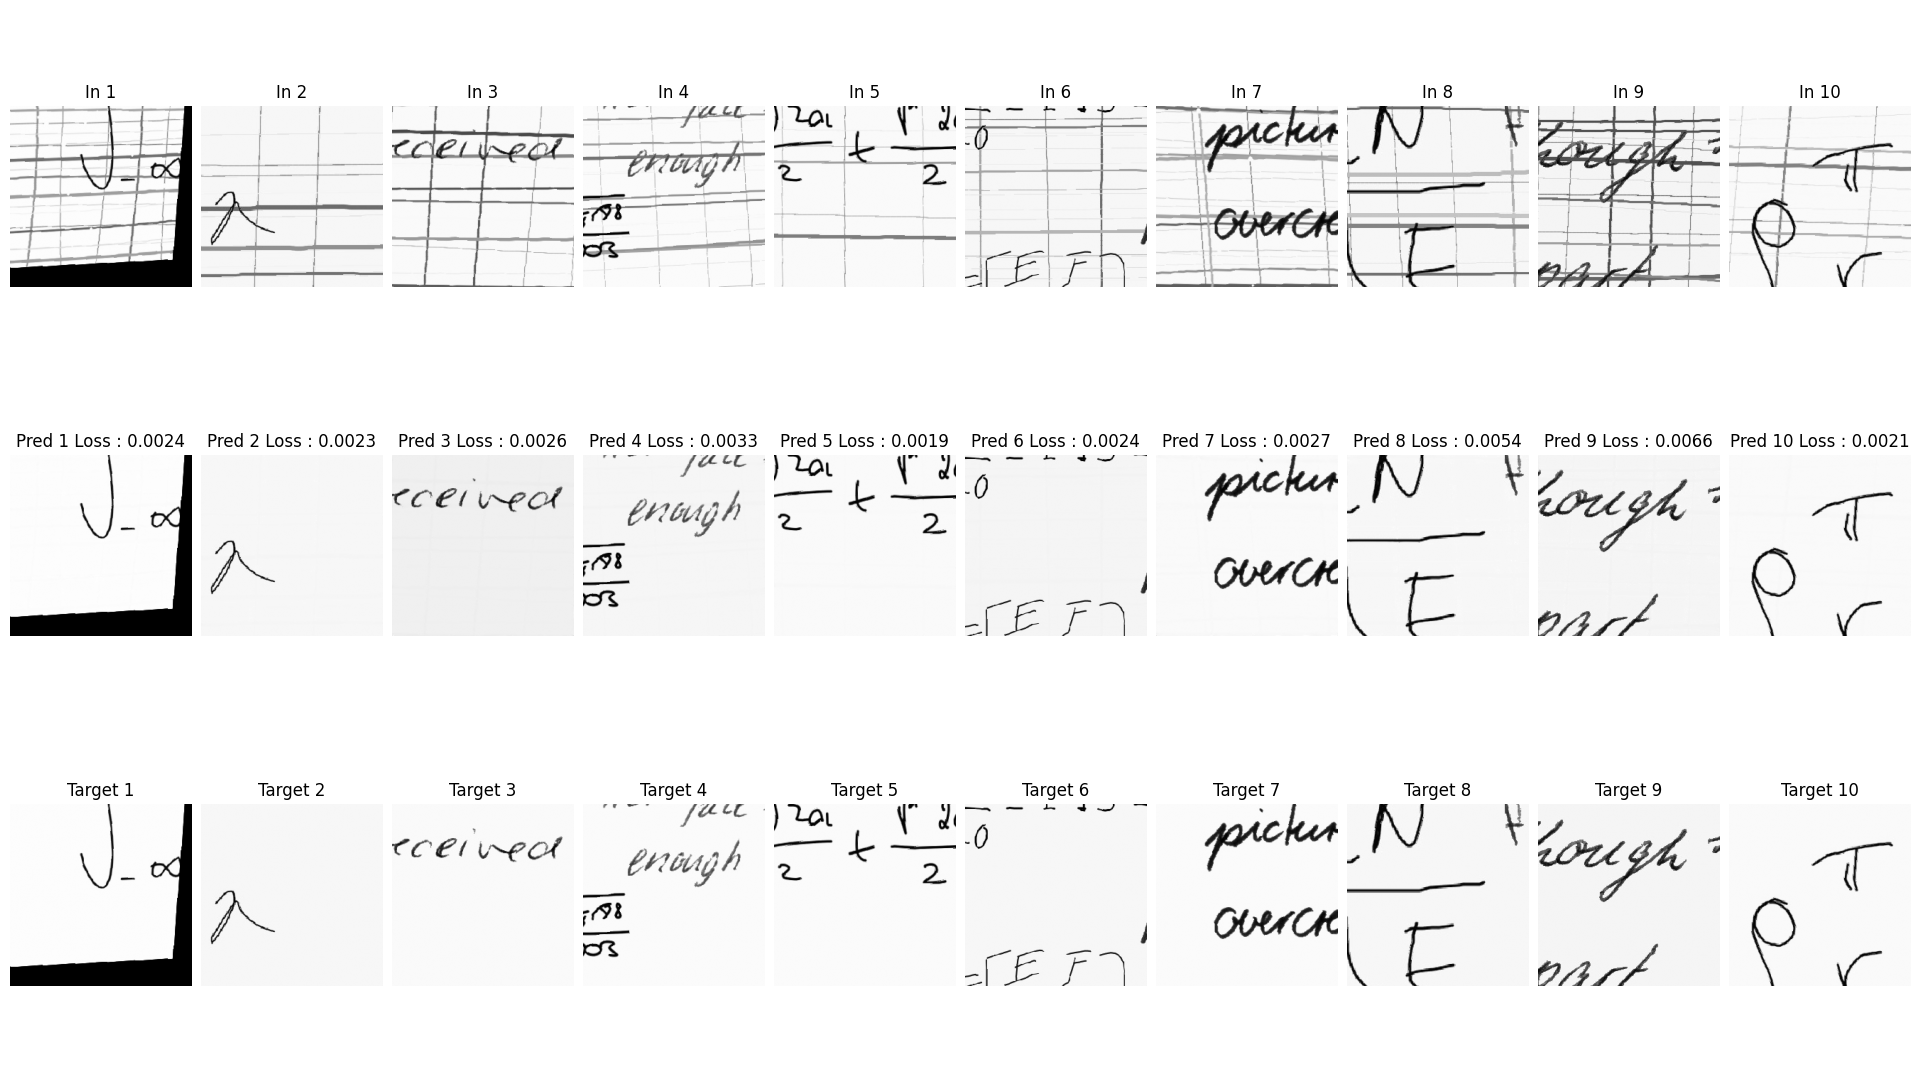
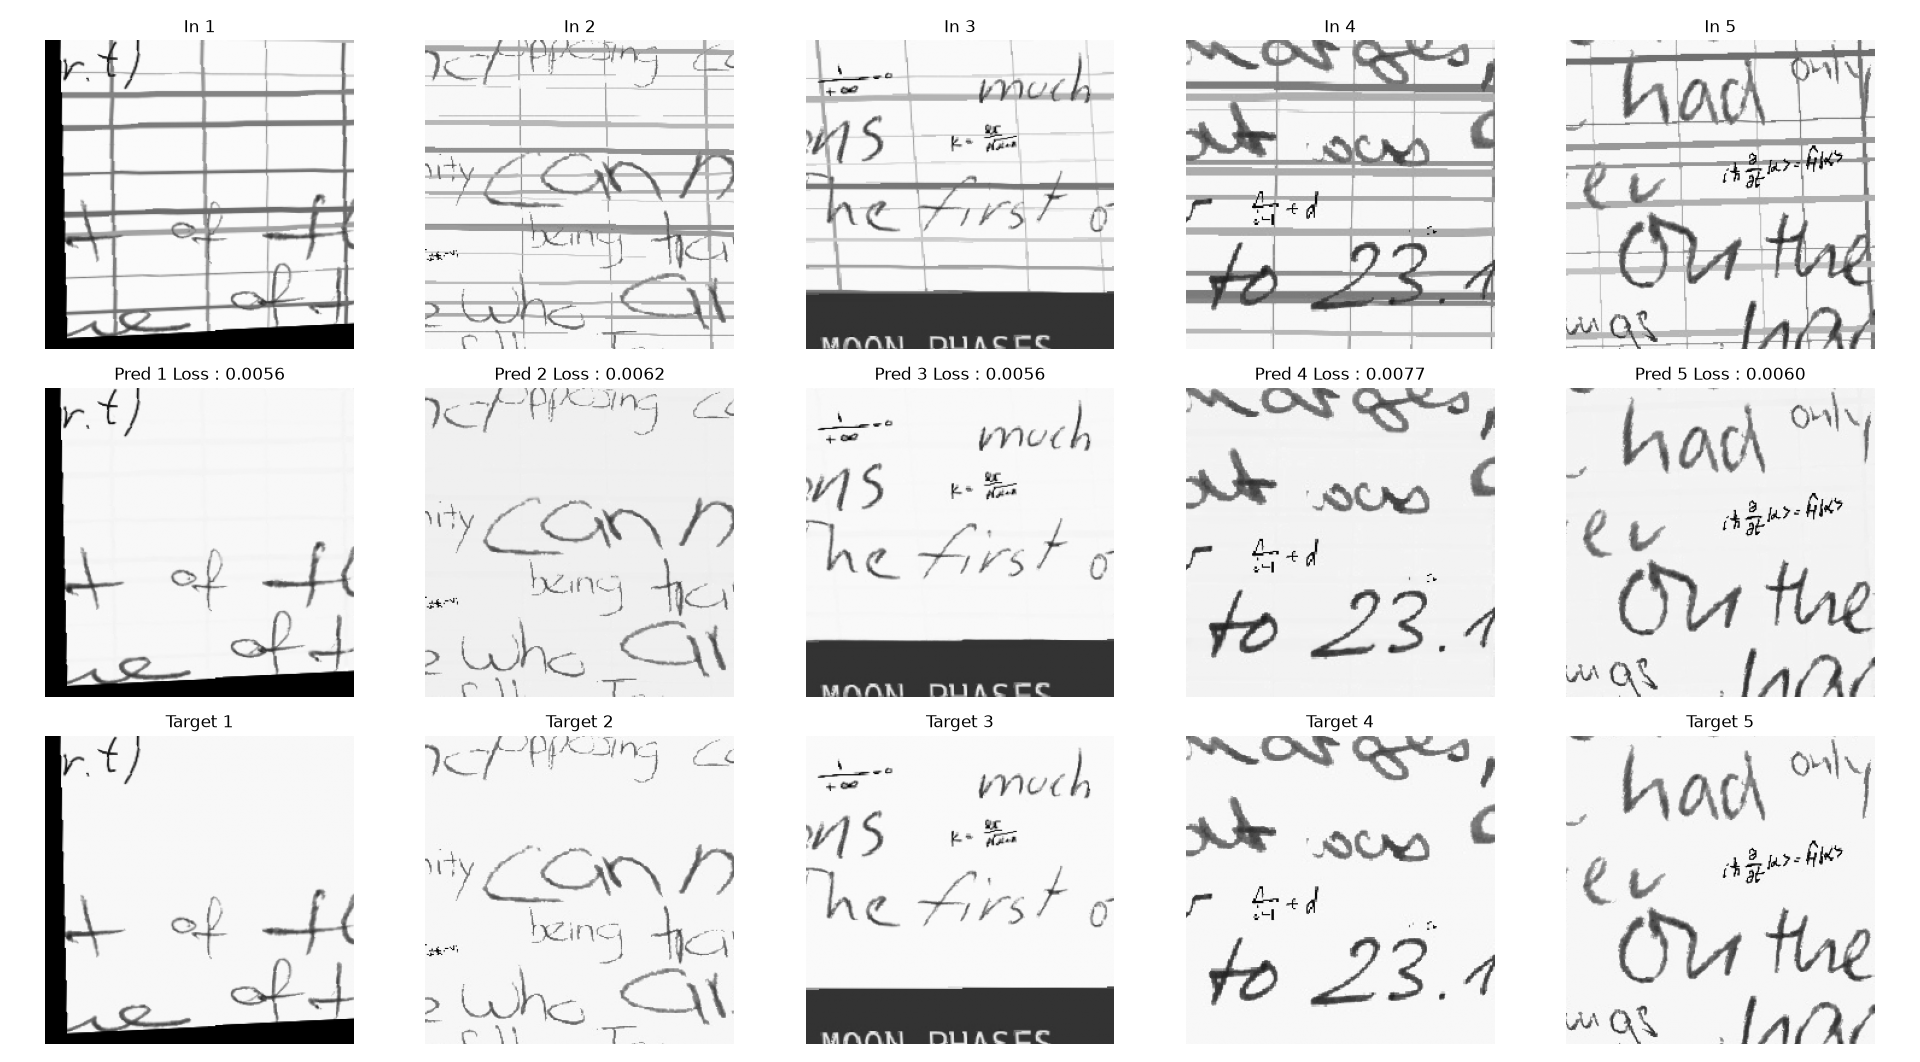
improved README.md + updated figure 1

diff --git a/lineremovernn/data/pages.py b/lineremovernn/data/pages.py
@@ -164,7 +164,7 @@ class PagesDataset(TorchDataset):
             w=page_w,
             h=page_h,
             line_height=int(root.attrib["line_height"]),
-            margin_left=int(root.attrib["margin_left"]),
+            margin_left=0,
             brightness=int(root.attrib["brightness"]),
             lines=lines_list,
             boxes=boxes,

diff --git a/README.md b/README.md
@@ -14,7 +14,7 @@
 This repos uses PyTorch to remove ruled lines from an image while reconstructing overlapping characters with lines.
 The goal of this model is to make easier the word recognition from OCR.
 
-![Example](.github/Figure_1.png)
+![Example results](.github/Figure_1.png)
 
 ## Installation
 
@@ -79,7 +79,7 @@ pixi run lineremovernn generate-pages [OPTIONS]
 | `-w`, `--workers`          | `INT`     | CPU threads to use (default: all cores)                                                                                     |
 | `-db`, `--debug`           | `FLAG`    | Debug how long each process of page generating is.                                                                          |
 
-### Train Model 🧑🏫
+### Train Model
 
 ```bash
 pixi run lineremovernn train [OPTIONS]
@@ -118,6 +118,18 @@ pixi run lineremovernn test
 | `-b`, `--batch-size` | `INT`  | Batch size.               |
 | `-l`, `--loss`       | `FLAG` | Show loss for each image. |
 
+### Preview dataset
+
+```bash
+pixi run lineremovernn preview-dataset
+```
+
+| Option              | Type   | Help                                 |
+| ------------------- | ------ | ------------------------------------ |
+| `-n`, `--n`         | `INT`  | Number of images to test.            |
+| `-d`, `--dataset`   | `STR`  | Dataset to preview available: pages. |
+| `-t`, `--transform` | `FLAG` | Add some random transforms.          |
+
 ## GUI Infer
 
 No python lib for the moment.
@@ -125,6 +137,14 @@ You can use the gui:
 
 ```bash
 pixi run lineremovernn gui-infer
+```
+
+## Development
+
+To force rebuild of CPP bindings (src/lineremovernn_ext), use:
+
+```bash
+pixi run build
 ```
 
 ## License
